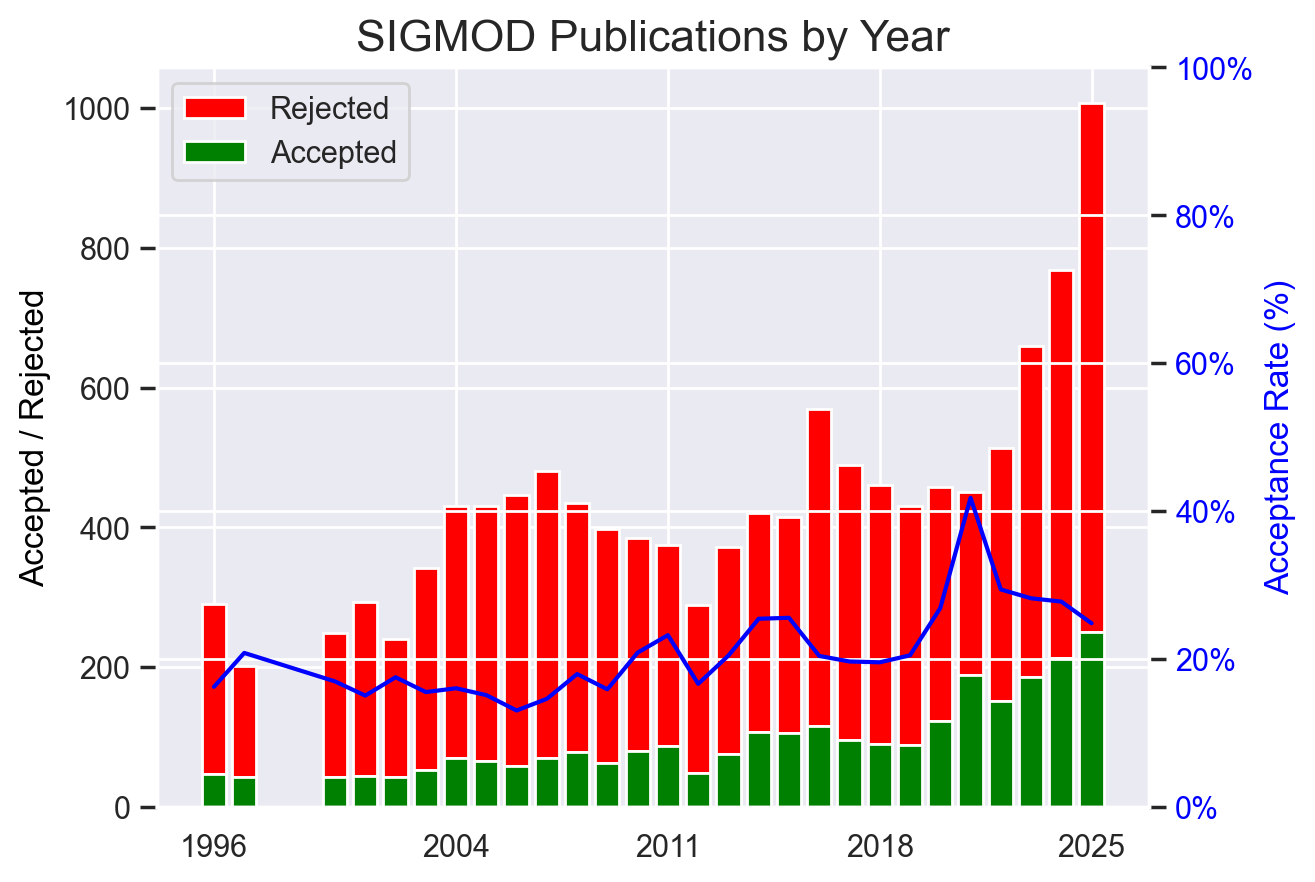
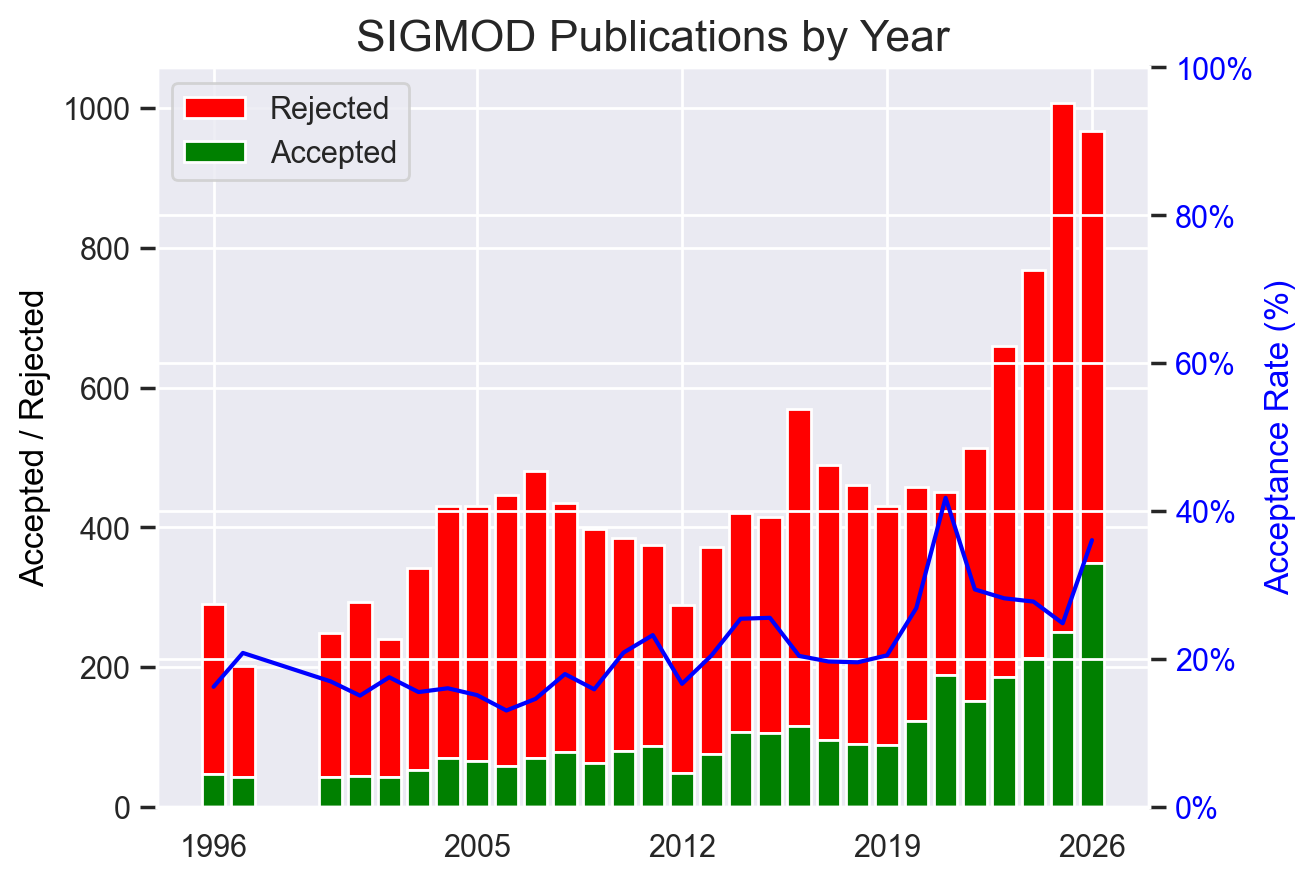
Add SIGMOD 2026 (4 rounds, 349/968) from PACMMOD editorials
Per-round counts from the PACMMOD V3N4, V3N6, V4N1, and V4N3 editorials
(read manually): R1 34/94, R2 95/252, R3 92/284, R4 128/338. The
denominators exclude desk rejects (and round 4's early rejects); the
editorials' own ratios use the 1049 raw submissions.

diff --git a/CLAUDE.md b/CLAUDE.md
@@ -74,6 +74,13 @@ Oakland 2026 (253/1995, PC chairs msg), UsenixSec 2026 (362/2750, chairs msg), N
 - WSDM 2026 added: **100 / 613** full-paper research track (after desk rejects and late withdrawals), from front matter read manually by Emery Berger.
 - EC 2025 added: **206 / 984** from front matter read manually by Emery Berger (DBLP lists 206; the Dec 2025 note's 207 came from the DBLP API). Front-matter DOIs: EC 2024 = 10.1145/3670865, EC 2025 = 10.1145/3736252. The EC 2024 and EC 2023 front matter contain **no submission counts**, so those years need the PC chairs or a SIGecom Exchanges report. EC 2026 proceedings were not yet in DBLP or Crossref as of 2026-11-18.
 - OOPSLA 2025 round 2 added (Sequence 2): **147 / 439** from the PACMPL vol. 9 OOPSLA2 editorial ("147 articles", "439 papers submitted by the March 2025 deadline"), read manually by Emery Berger. Until then, 2025 showed only round 1 (67/151), and the explorer's per-year sum looked like one small cycle. The year now totals 214/590, matching the aggregator. DBLP lists 149 entries for that issue. The OOPSLA 2025 HotCRP (`oopsla2425`) shows no stats, while `oopsla24.hotcrp.com` shows "148 of 384" (= the two 2024 rounds). Editorials for PACMPL issues are not reliably in Crossref; get them from the issue page `dl.acm.org/toc/pacmpl/<year>/<vol>/<issue>`.
+- SIGMOD 2026 added as **4 rounds (Sequence 1-4), 349 / 968 total**, from the PACMMOD editorials read manually by Emery Berger. Each SIGMOD issue's editorial gives that round's raw submissions, desk rejects, and accepts:
+  - Rounds: R1 34/94 (V3N4, 10.1145/3749155), R2 95/252 (V3N6, 10.1145/3769750), R3 92/284 (V4N1, 10.1145/3786615), R4 128/338 (V4N3, 10.1145/3802001).
+  - Denominators exclude desk rejects. R4 also excludes its "early-rejected (after a preliminary review)" papers, which its editorial lumps with desk rejects (338 = "reviewed by three or more").
+  - The editorials' own ratios use raw submissions (1049 total).
+  - SIGMOD 2025's 1008 (welcome PDF) may still include desk rejects.
+  - DBLP issue counts match the accepted counts + 1 editorial (35, 96, 129), except V4N1 (98 entries vs 92 + 1).
+  - These editorials are journal articles: open `dl.acm.org/doi/<doi>` (not `showFmPdf`). Crossref lists them as "PACMMOD Vx, Ny (SIGMOD) ... Editorial" under ISSN 2836-6573.
 - SOSP 2026 added: **62 / 390** from front matter (https://dl.acm.org/action/showFmPdf?doi=10.1145%2F3830418), which says "We received 390 submissions" and gives a 15.9% acceptance rate (390 × 15.9% ≈ 62, matching the official accepted list). Emery Berger read this front matter manually because ACM DL blocks automated fetches; it's worth asking him for other blocked ACM front matter (e.g. CCS 2026, STOC 2026, EC).
 - ATC 2024 submitted 488 -> 481 and ATC 2025 634 -> 619 (reviewed counts per the chairs' messages). OSDI 2022 submitted 251 -> 253. OSDI 2025 accepted 53 -> 48: OSDI numerators now exclude revise-and-resubmit papers carried over from the prior year (2024: 49 + 4 R&R, 2025: 48 + 5, 2026: 134 + 2). USENIX chairs' messages live at `usenix.org/sites/default/files/<conf><yy>_message.pdf` (or `-message.pdf`).
 - ICML 2026 kept at 6352/23918 (main track); official fact sheet's 6552/24661 appears to include the Position Paper track.
@@ -85,7 +92,7 @@ Oakland 2026 (253/1995, PC chairs msg), UsenixSec 2026 (362/2750, chairs msg), N
 - **OSDI revise-and-resubmit (R&R) convention (decided Nov 2026).** OSDI accepts some papers through R&R, and they appear in the *following* year's proceedings. The Accepted column counts only papers accepted from that year's own submission pool and **excludes R&R carry-overs from the prior year**, because those papers were never part of that year's Submitted denominator. This means OSDI 2025 = **48 / 339**, not the official "53 papers ... overall acceptance rate of 16%" (53 = 48 + 5 R&R from OSDI '24; https://www.usenix.org/sites/default/files/osdi25-message.pdf). The rule matches OSDI 2024 (49, excluding 4 R&R from '23) and OSDI 2026 (134, excluding 2 R&R from '25), so the numerators stay consistent. Rates computed this way can differ from the chairs' published rate, so record the official figure in Notes.
 
 ### Found but NOT added (missing primary submitted count)
-IMC 2025/2026, MobiCom 2026 (88 acc), SIGCOMM 2025 (only inferred), MICRO 2026 (213 acc), PLDI 2026, OOPSLA 2026, ICFP 2026, PPoPP 2026, CC 2026, ASE 2026, ISSTA 2026 (210 acc; 888 aggregator-only), CGO 2027 (72/315 HotCRP, but R1 revisions likely double-counted), AAAI 2026 (aggregator-only exact numbers), IJCAI 2026 (only all-tracks totals), NeurIPS 2026 (no submission count), SIGIR 2026, FOCS/SODA 2026, SIGMOD/PODS 2026, EC 2023/2024/2026, WINE 2026.
+IMC 2025/2026, MobiCom 2026 (88 acc), SIGCOMM 2025 (only inferred), MICRO 2026 (213 acc), PLDI 2026, OOPSLA 2026, ICFP 2026, PPoPP 2026, CC 2026, ASE 2026, ISSTA 2026 (210 acc; 888 aggregator-only), CGO 2027 (72/315 HotCRP, but R1 revisions likely double-counted), AAAI 2026 (aggregator-only exact numbers), IJCAI 2026 (only all-tracks totals), NeurIPS 2026 (no submission count), SIGIR 2026, FOCS/SODA 2026, PODS 2026, EC 2023/2024/2026, WINE 2026.
 
 ### DBLP cross-check (local snapshot `~/git/CSrankings/dblp.xml.xz`)
 The CSrankings snapshot is a venue-filtered DBLP dump that works offline when the DBLP API is bot-walled. It gives accepted counts only, never submissions. Count with:

diff --git a/README.md b/README.md
@@ -80,7 +80,7 @@
 <IMG SRC="https://github.com/emeryberger/csconferences/blob/main/graphs/PODS.png?raw=true" WIDTH="500">
 <A NAME="SIGMOD"></A>
 <P><B><A HREF="https://dblp.org/db/conf/sigmod/index.html">SIGMOD</A></B>
- <em>mean acceptance rate, last 5 years: 30%</em></P>
+ <em>mean acceptance rate, last 5 years: 29%</em></P>
 <IMG SRC="https://github.com/emeryberger/csconferences/blob/main/graphs/SIGMOD.png?raw=true" WIDTH="500">
 <A NAME="VLDB"></A>
 <P><B><A HREF="https://dblp.org/db/conf/vldb/index.html">VLDB</A></B>

diff --git a/static/index.md b/static/index.md
@@ -80,7 +80,7 @@
 <IMG SRC="https://github.com/emeryberger/csconferences/blob/main/graphs/PODS.png?raw=true" WIDTH="500">
 <A NAME="SIGMOD"></A>
 <P><B><A HREF="https://dblp.org/db/conf/sigmod/index.html">SIGMOD</A></B>
- <em>mean acceptance rate, last 5 years: 30%</em></P>
+ <em>mean acceptance rate, last 5 years: 29%</em></P>
 <IMG SRC="https://github.com/emeryberger/csconferences/blob/main/graphs/SIGMOD.png?raw=true" WIDTH="500">
 <A NAME="VLDB"></A>
 <P><B><A HREF="https://dblp.org/db/conf/vldb/index.html">VLDB</A></B>
